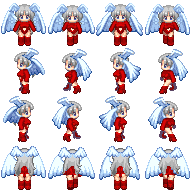
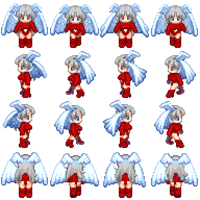
building collision

diff --git a/src/core/player.js b/src/core/player.js
@@ -1,10 +1,10 @@
 import { placeBomb } from "./bomb.js";
 import * as utils from "../utils/collision.js"
 import {Tils} from "../main.js"
-const TILE_SIZE = 48
+const TILE_SIZE = 50
 const player = document.getElementById('player');
-const frameWidth = 48;
-const frameHeight = 48;
+const frameWidth = 50;
+const frameHeight = 50;
 const spriteDirections = {
     down: 0,
     left: 1,
@@ -43,40 +43,41 @@ export function update(deltaTime) {
   switch (lastKey) {
     case 'ArrowUp':
     case 'w':
-      if (surroundings.up) {
+      playerState.direction = 'up';
+      if (playerState.x %50 === 0 && surroundings.up) {
         playerState.y -= playerState.speed * deltaTime;
-        playerState.direction = 'up';
-        moving = true;
       }
+      moving = true;
       break;
     case 'ArrowDown':
     case 's':
-      if (surroundings.down) {
+      playerState.direction = 'down';
+      if (playerState.x %50 === 0 && surroundings.down) {
         playerState.y += playerState.speed * deltaTime;
-        playerState.direction = 'down';
-        moving = true;
       }
+      moving = true;
       break;
     case 'ArrowLeft':
     case 'a':
-      if (surroundings.left) {
+      playerState.direction = 'left';
+      if (playerState.y %50 === 0 && surroundings.left) {
         playerState.x -= playerState.speed * deltaTime;
-        playerState.direction = 'left';
-        moving = true;
       }
+      moving = true;
       break;
     case 'ArrowRight':
     case 'd':
-      if (surroundings.right) {
+      playerState.direction = 'right';
+      console.log(playerState.y,surroundings.right)
+      if (playerState.y %50 === 0 && surroundings.right) {
         playerState.x += playerState.speed * deltaTime;
-        playerState.direction = 'right';
-        moving = true;
       }
+      moving = true;
       break;
   }
 
-  playerState.x = Math.max(48, Math.min(mapBounds.width - 48, playerState.x));
-  playerState.y = Math.max(48, Math.min(mapBounds.height - 48, playerState.y));
+  playerState.x = Math.max(TILE_SIZE, Math.min(mapBounds.width - TILE_SIZE, playerState.x));
+  playerState.y = Math.max(TILE_SIZE, Math.min(mapBounds.height - TILE_SIZE, playerState.y));
 
   if (moving) {
       const currentTime = performance.now();

diff --git a/src/utils/collision.js b/src/utils/collision.js
@@ -1,7 +1,13 @@
 export function getPlayerTilePosition(playerState, tileSize) {
   console.log("worked - getPlayerTilePosition");
-  const row = Math.floor(playerState.y / tileSize);
-  const col = Math.floor(playerState.x / tileSize);
+  let row,col = 0
+  if (playerState.direction === "up" || playerState.direction === "left"){
+    row = Math.ceil(playerState.y / tileSize);
+    col = Math.ceil(playerState.x / tileSize);
+  }else{
+    row = Math.floor(playerState.y / tileSize);
+    col = Math.floor(playerState.x / tileSize);
+  }
   console.log(`Player is at row: ${row}, col: ${col}`);
   return { row, col };
 }

diff --git a/src/assets/styles.css b/src/assets/styles.css
@@ -10,12 +10,6 @@ body {
   justify-content: center;
   align-items: center;
 }
-.field{
-  width: 700px;
-  height: 600px;
-
-
-}
 
 .map {
   width: 750px;
@@ -26,11 +20,11 @@ body {
 }
 
 .player {
-  width: 48px;
-  height: 48px;
+  width: 50px;
+  height: 50px;
   position: absolute;
   background-image: url('./altima2.png');
-  background-size: 192px 192px;
+  background-size: 200px 200px;
   will-change: transform, background-position;
 }
 
